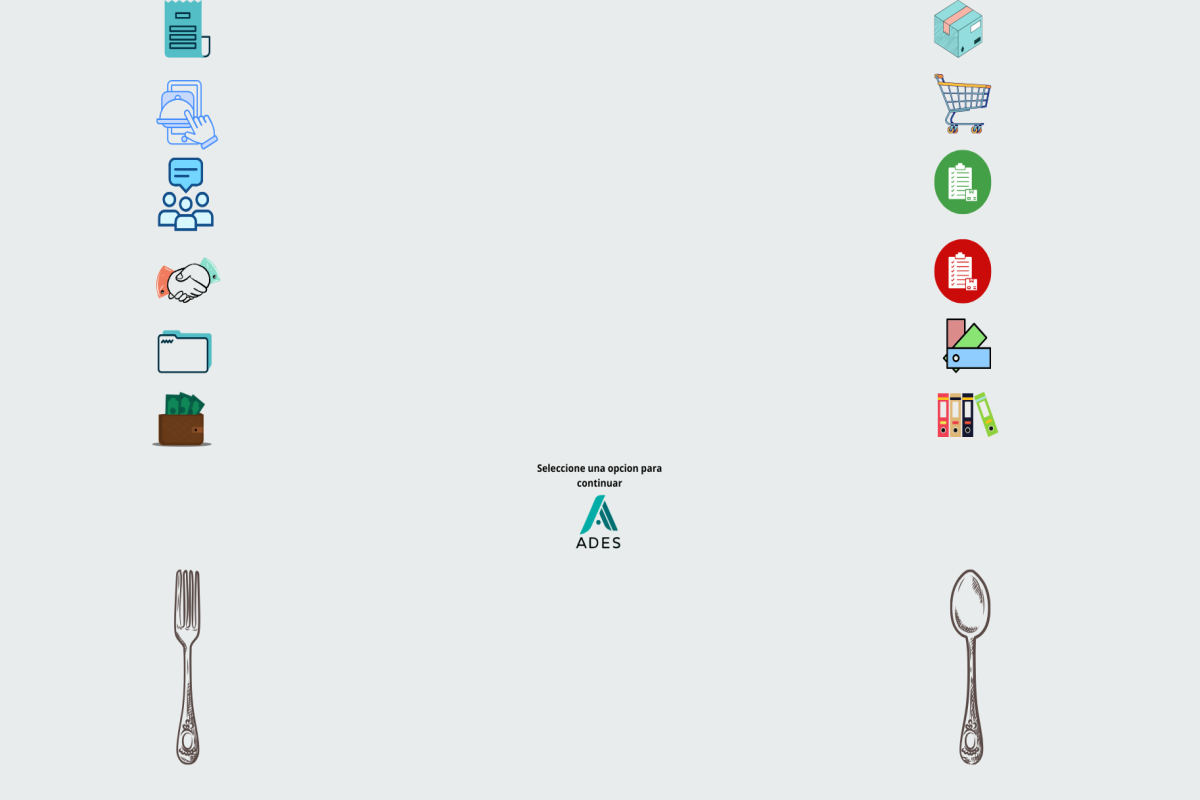
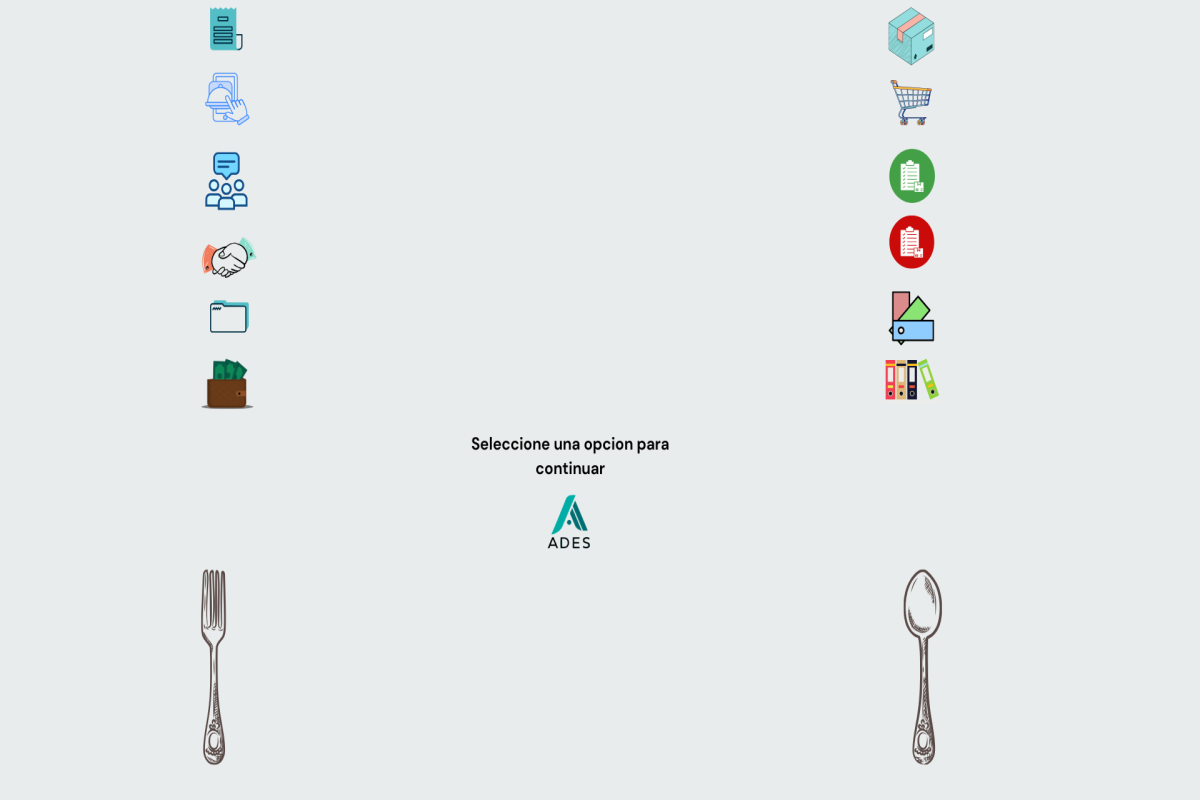
Se cambio interfase

diff --git a/src/despachos.java b/src/despachos.java
@@ -163,16 +163,17 @@ public class despachos extends Application {
         mainLayout.getChildren().add(dateVBox); // Añadir al layout principal
 
         // Crear la escena y mostrarla
-        Scene scene = new Scene(mainLayout, 1200, 800); // Ajustar tamaño de la ventana
+        Scene scene = new Scene(mainLayout, 1150, 800); // Ajustar tamaño de la ventana
+        primaryStage.setScene(scene);  // Utiliza el primaryStage existente
+        primaryStage.setResizable(false); // Desactiva la opción de redimensionar
+        primaryStage.show();
 
-        // Vincular el tamaño de los botones y el layout a la ventana
+// Vincular el tamaño de los botones y el layout a la ventana
         scene.widthProperty().addListener((obs, oldWidth, newWidth) -> {
             double scale = newWidth.doubleValue() / 980;
             mainButtonsLayout.setStyle("-fx-font-size: " + (scale * 16) + "px;"); // Ajuste dinámico del tamaño de los botones
         });
 
-        primaryStage.setScene(scene);
-        primaryStage.show();
 
         // Actualizar la hora cada segundo
         startClock();

diff --git a/src/Facturar.java b/src/Facturar.java
@@ -34,7 +34,7 @@ public class Facturar extends Application {
     public void start(Stage primaryStage) {
         facturarStage = primaryStage;  // Guardar la referencia al Stage de Facturar
 
-        Label titleLabel = new Label("A D E S");
+        Label titleLabel = new Label("A D E S  F A C T U R A");
         titleLabel.setStyle("-fx-font-size: 32px; -fx-font-weight: bold; -fx-text-fill: #0294b5;");
 
         // ComboBox para pedidos pendientes
@@ -113,7 +113,7 @@ public class Facturar extends Application {
 
         Scene scene = new Scene(gridPane, 800, 800);
         scene.setFill(Color.web("#f4f4f4"));
-        primaryStage.setTitle("Facturación Restaurante");
+        primaryStage.setTitle("Facturación");
         primaryStage.setScene(scene);
         primaryStage.show();
     }
